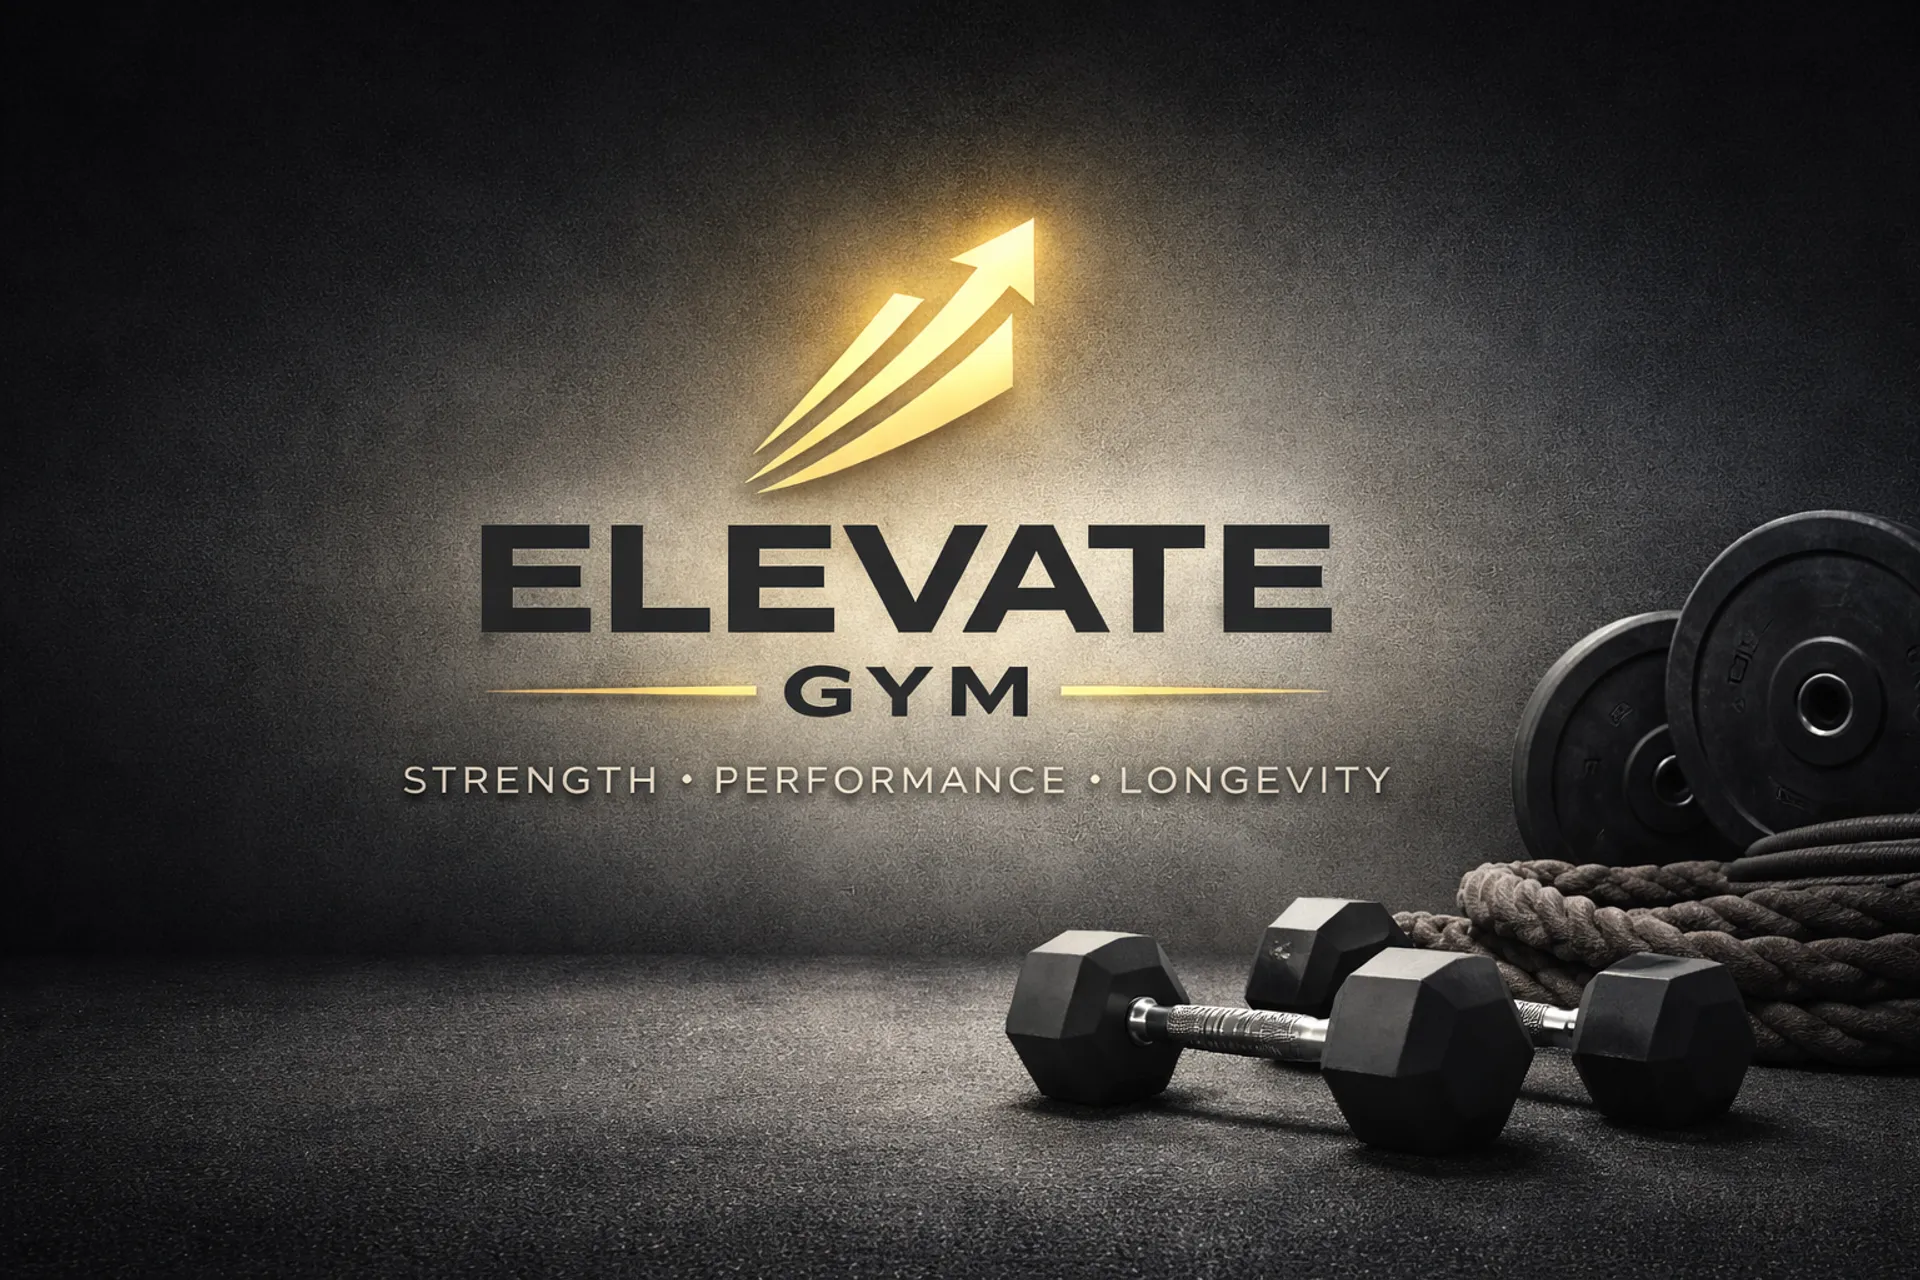
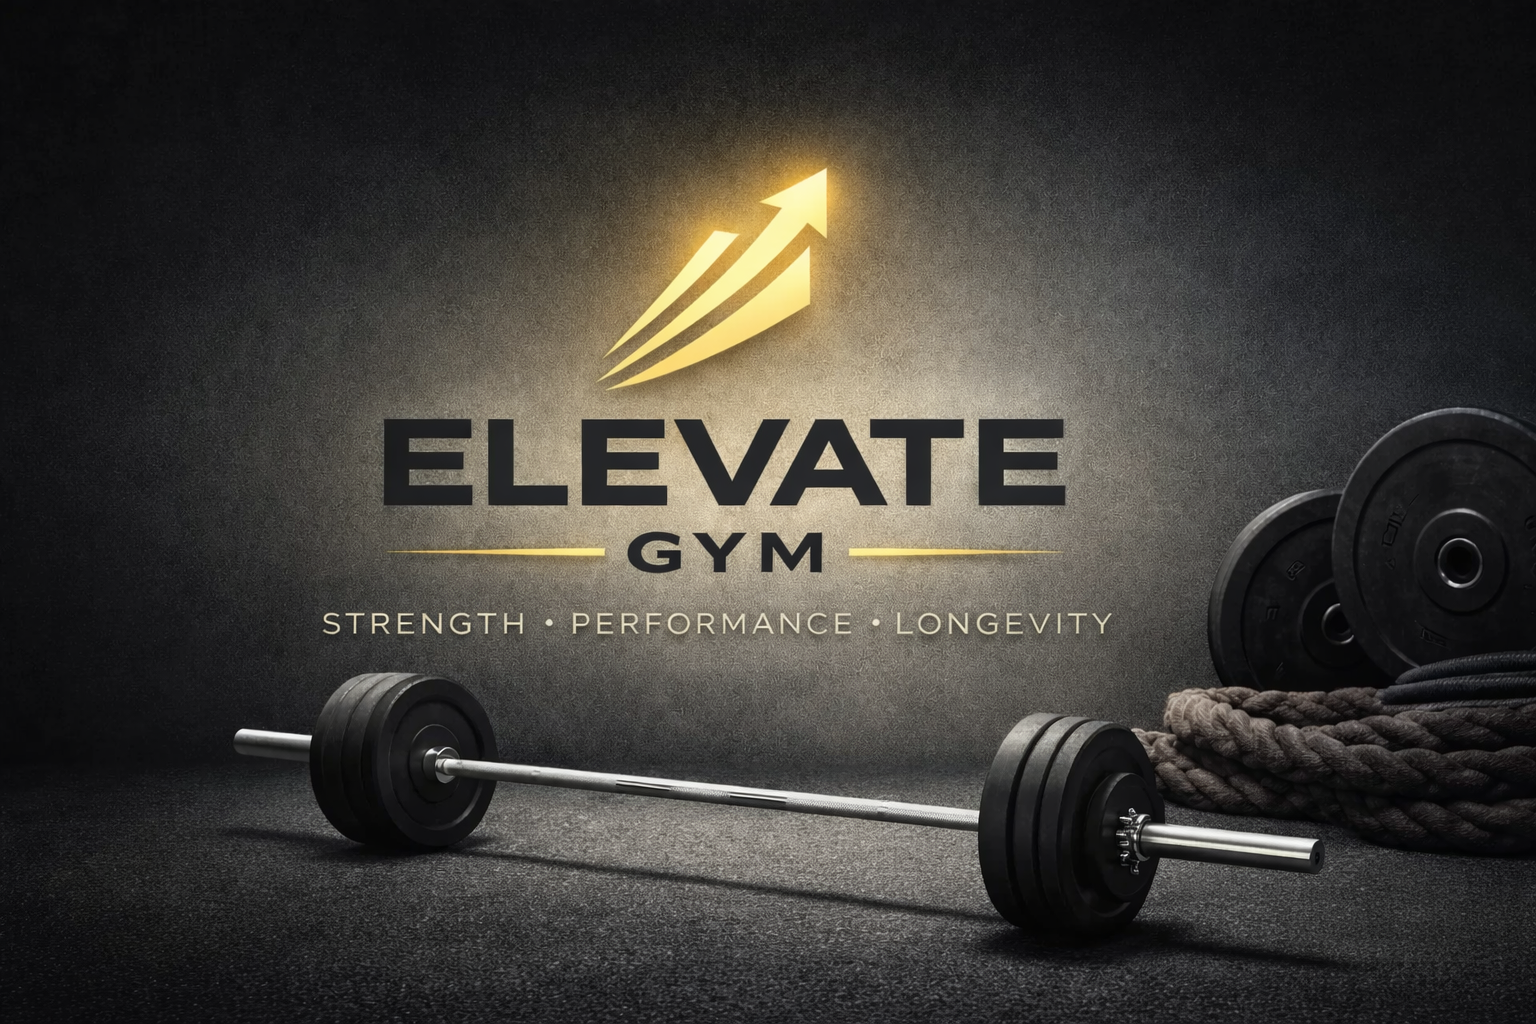
Replace hero image with Olympic barbell version and adjust hero layout
Swaps the dumbbell hero image for the new Olympic barbell banner.
Adjusts hero section to 115vh with bottom-aligned content so the
logo/branding in the image stays visible above the headline and CTAs.
Lighter overlay at top preserves image detail, darker at bottom for
text readability.

diff --git a/website/styles.css b/website/styles.css
@@ -2,6 +2,18 @@
    Elevate Gym - Marketing Website Styles
    ============================================ */
 
+.sr-only {
+  position: absolute;
+  width: 1px;
+  height: 1px;
+  padding: 0;
+  margin: -1px;
+  overflow: hidden;
+  clip: rect(0, 0, 0, 0);
+  white-space: nowrap;
+  border: 0;
+}
+
 :root {
   /* Brand Colors */
   --gold:          #c8a94e;
@@ -221,10 +233,10 @@ ul {
    ============================================ */
 .hero {
   position: relative;
-  height: 100vh;
-  min-height: 700px;
+  height: 115vh;
+  min-height: 900px;
   display: flex;
-  align-items: center;
+  align-items: flex-end;
   justify-content: center;
   overflow: hidden;
 }
@@ -239,7 +251,7 @@ ul {
   width: 100%;
   height: 100%;
   object-fit: cover;
-  object-position: center;
+  object-position: center top;
 }
 
 .hero-overlay {
@@ -248,9 +260,12 @@ ul {
   z-index: 1;
   background: linear-gradient(
     to bottom,
-    rgba(0, 0, 0, 0.55) 0%,
-    rgba(0, 0, 0, 0.65) 40%,
-    rgba(0, 0, 0, 0.8) 100%
+    rgba(0, 0, 0, 0.2) 0%,
+    rgba(0, 0, 0, 0.0) 10%,
+    rgba(0, 0, 0, 0.0) 45%,
+    rgba(0, 0, 0, 0.5) 60%,
+    rgba(0, 0, 0, 0.92) 78%,
+    rgba(0, 0, 0, 0.98) 100%
   );
 }
 
@@ -259,8 +274,8 @@ ul {
   z-index: 2;
   text-align: center;
   max-width: 800px;
-  padding: 0 24px;
-  margin-top: 120px;
+  padding: 0 24px 40px;
+  margin-top: 0;
 }
 
 .hero-title {
@@ -270,13 +285,13 @@ ul {
   line-height: 1.1;
   margin-bottom: 24px;
   letter-spacing: -1px;
-  text-shadow: 0 2px 20px rgba(0, 0, 0, 0.5);
+  text-shadow: 0 2px 30px rgba(0, 0, 0, 0.8);
 }
 
 .hero-subtitle {
   font-size: clamp(1rem, 2.5vw, 1.25rem);
   color: var(--text-muted);
-  margin-bottom: 40px;
+  margin-bottom: 28px;
   line-height: 1.7;
   font-weight: 300;
 }
